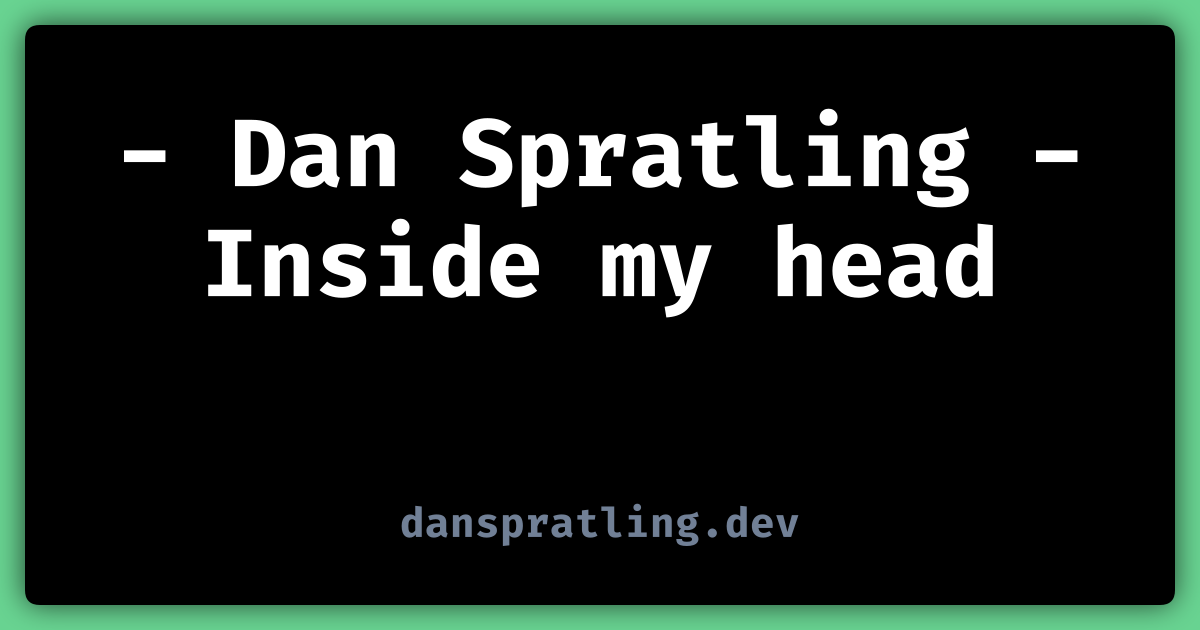
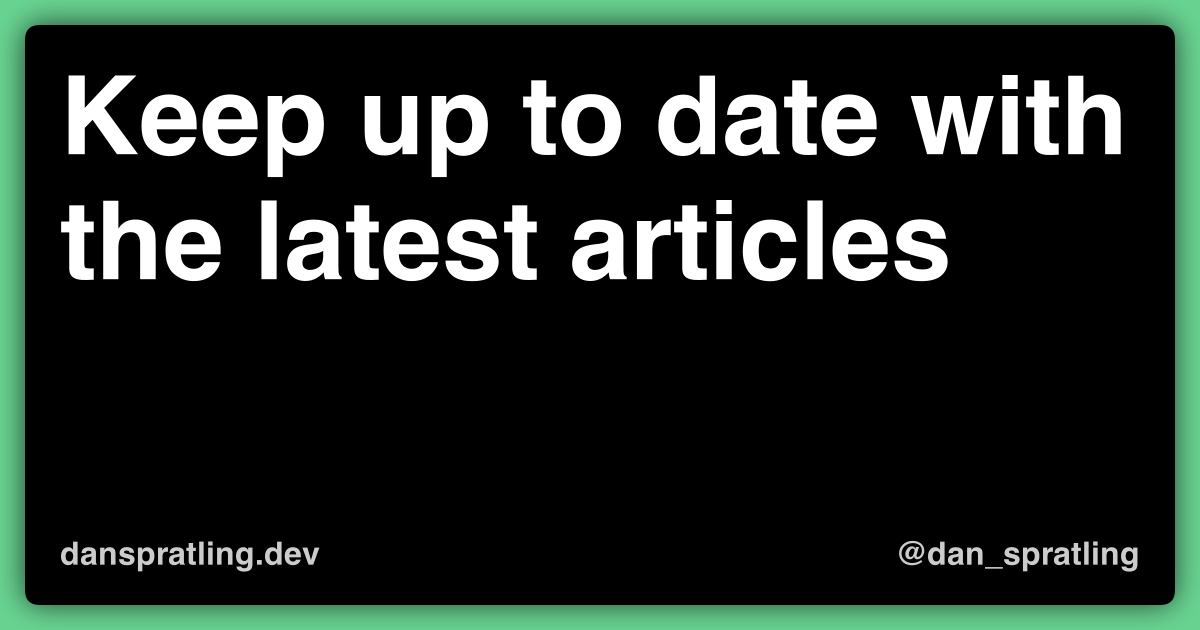
Improves social media images

diff --git a/functions/socialImage.js b/functions/socialImage.js
@@ -28,8 +28,8 @@ function generateImage({ title, slug }) {
   // context.fillRect(25, 25, width, height)
 
   //set the copy style
-  context.font = 'bold 70pt Fira Code'
-  context.textAlign = 'center'
+  context.font = 'bold 82pt Ubuntu'
+  context.textAlign = 'left'
   context.textBaseline = 'top'
   context.fillStyle = '#fff'
 
@@ -40,18 +40,18 @@ function generateImage({ title, slug }) {
   //redraw the title over multiple lines
   const words = title.split(' ')
   let line = ''
-  let fromTop = 100
+  let fromTop = 70
   words.forEach(word => {
     let testLine = line + word + ' '
     if (context.measureText(testLine).width > width) {
-      context.fillText(line.trim(), 600, fromTop)
+      context.fillText(line.trim(), 60, fromTop)
       line = word + ' '
-      fromTop = fromTop + 110
+      fromTop = fromTop + 125
     } else {
       line = line + word + ' '
     }
   })
-  context.fillText(line.trim(), 600, fromTop)
+  context.fillText(line.trim(), 60, fromTop)
   context.fillStyle = '#fff'
 
   // const textWidth = context.measureText(title).width
@@ -62,9 +62,15 @@ function generateImage({ title, slug }) {
   // context.fillText(title, 600, 170)
 
   //insert domain
-  context.fillStyle = '#718096'
-  context.font = 'bold 30pt Fira Code'
-  context.fillText('danspratling.dev', 600, 500)
+  context.fillStyle = '#ccc'
+  context.font = 'bold 24pt Ubuntu'
+  context.fillText('danspratling.dev', 60, 540)
+
+  //insert domain
+  context.fillStyle = '#ccc'
+  context.font = 'bold 24pt Ubuntu'
+  context.textAlign = 'right'
+  context.fillText('@dan_spratling', 1140, 540)
 
   //export image
   const buffer = canvas.toBuffer('image/png')

diff --git a/gatsby-node.js b/gatsby-node.js
@@ -3,12 +3,21 @@ const generateImage = require('./functions/socialImage')
 
 //Build our social media (twitter/og) images using canvas
 generateImage({
-  title: '- Dan Spratling - Freelance web developer',
+  title: 'Dan Spratling Freelance developer & designer',
   slug: 'home',
 })
-generateImage({ title: '- Dan Spratling - Get in touch', slug: 'contact' })
-generateImage({ title: '- Dan Spratling - Explore projects', slug: 'projects' })
-generateImage({ title: '- Dan Spratling - Inside my head', slug: 'blog' })
+generateImage({
+  title: 'Contact me about your next project',
+  slug: 'contact',
+})
+generateImage({
+  title: 'Explore my recent projects & find inspiration for yours',
+  slug: 'projects',
+})
+generateImage({
+  title: 'Keep up to date with the latest articles',
+  slug: 'blog',
+})
 // generateImage({ title: '', slug: 'uses' })
 
 exports.createPages = async ({ graphql, actions }) => {
@@ -41,7 +50,7 @@ exports.createPages = async ({ graphql, actions }) => {
   //create project pages from data
   data.projects.edges.forEach(({ node }) => {
     const seoImage = generateImage({
-      title: `- Project review - ${node.title}`,
+      title: `From my portfolio: ${node.title}`,
       slug: node.slug,
     })
 

diff --git a/README.md b/README.md
@@ -10,11 +10,11 @@
 
 TODO:
 
-- Sign up form
+- Analytics (https://usefathom.com/)
 - Docs
 - Uses (tech)
 - About (skillset)
-- Analytics (https://usefathom.com/)
+- Form design improvements
 
 Kick off your project with this default boilerplate. This starter ships with the main Gatsby configuration files you might need to get up and running blazing fast with the blazing fast app generator for React.
 
